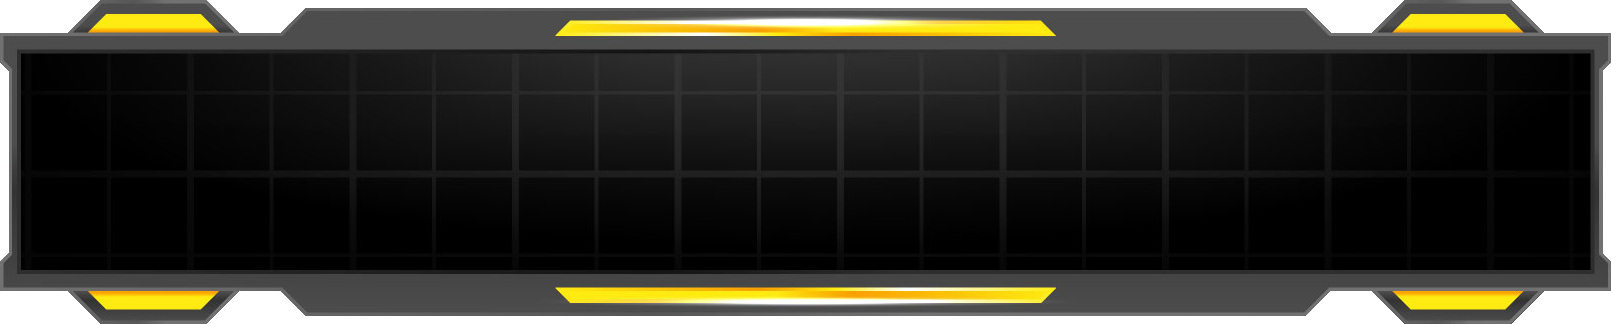
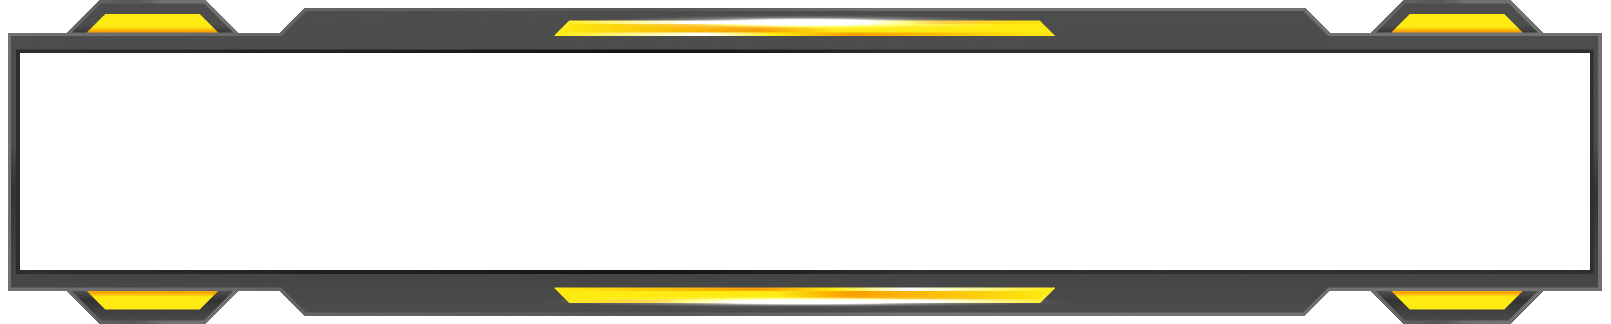
main board ui

diff --git a/src/Board.js b/src/Board.js
@@ -193,7 +193,7 @@ export function TIOBoard({ ctx, G, moves, events, undo, playerID, sendChatMessag
    */
   const MyNavbar = () =>
     <div style={{ position: 'fixed', height: 0, width: '100%', zIndex: '2', display: 'flex', justifyContent: 'space-between', padding: '0'}}>
-      <ButtonGroup className='borderedPanel' style={{height: '4.5rem', margin: '0 0 0 6rem', paddingTop:'2rem', fontFamily:'Handel Gothic'}}>
+      <ButtonGroup className='borderedPanel' style={{height: '4.5rem', margin: '0 0 0 2rem', paddingTop:'2rem', fontFamily:'Handel Gothic'}}>
         <button className={'styledButton ' + (objVisible ? 'white':'black')} style={{width: '8rem'}} onClick={()=>setObjVisible(!objVisible)}>{t("board.nav.objectives")}</button>
         <button className={'styledButton ' + (planetsVisible ? 'white':'black')} style={{width: '8rem'}} onClick={()=>setPlanetsVisible(!planetsVisible)}>{t("board.nav.planets")}</button>
         <button className={'styledButton ' + (unitsVisible ? 'white':'black')} style={{width: '8rem'}} onClick={()=>setUnitsVisible(!unitsVisible)}>{t("board.nav.units")}</button>
@@ -208,7 +208,7 @@ export function TIOBoard({ ctx, G, moves, events, undo, playerID, sendChatMessag
               <AccordionHeader targetId='1' style={{border: 'none', background: 'transparent'}}>
                 <span style={{display: 'flex', width: '100%', background: 'transparent'}}>
                   <CardImg style={{width: '2rem', maxHeight: '2rem', marginRight: '1rem'}} src={'race/icons/'+G.races[ctx.currentPlayer].rid+'.png'} />
-                  <h5 style={{margin: 0, alignSelf: 'center', flex: 'auto'}}>{t('board.players_move') + ': ' + t('races.' + G.races[ctx.currentPlayer].rid + '.name')}
+                  <h5 style={{margin: 0, alignSelf: 'center', flex: 'auto'}}>{t('races.' + G.races[ctx.currentPlayer].rid + '.name')}
                   {G.speaker === G.races[ctx.currentPlayer].rid ? ' (' + t('board.speaker') + ')': ''}
                   </h5>
                 </span>
@@ -1213,11 +1213,11 @@ export function TIOBoard({ ctx, G, moves, events, undo, playerID, sendChatMessag
   return (
           <StateContext.Provider value={{G, ctx, playerID, moves, exhaustedCards, exhaustTechCard, prevStages: prevStages.current, PLANETS, UNITS}}>      
             <MyNavbar />
-            <CardColumns style={{margin: '5rem 1rem 1rem 1rem', padding:'1rem', position: 'fixed', width: '35rem', zIndex: '1'}}>
+            <CardColumns style={{margin: '4rem 1rem 1rem 1rem', padding:'1rem', position: 'fixed', width: '35rem', zIndex: '1'}}>
               {ctx.phase !== 'strat' && ctx.phase !== 'agenda' && !strategyStage && !race.isSpectator && <>
                 {techVisible && <TechnologyDialog />}
-                {objVisible && <Card id='objListMain' style={{ ...CARD_STYLE, backgroundColor: 'rgba(33, 37, 41, 0.95)'}}>
-                    <CardTitle style={{borderBottom: '1px solid rgba(74, 111, 144, 0.42)'}}><h6>{t('board.nav.objectives')} <span style={{float: 'right'}}>{t('board.you_have') + ' ' + VP + ' ' + t('board.vp')}</span></h6></CardTitle>
+                {objVisible && <Card id='objListMain' className='subPanel' style={{ padding: '3rem 1rem 1rem', backgroundColor: 'rgba(33, 37, 41, 0.95)'}}>
+                    <CardTitle><h6 style={{textAlign: 'right', margin: 0}}>{t('board.victory_points').toUpperCase() + ': ' + VP}</h6></CardTitle>
                     <ObjectivesList mustSecObj={mustSecObj} onSelect={ctx.phase === 'stats' && isMyTurn ? completeObjective: mustSecObj ? dropSecretObjective: ()=>{}}/>
                   </Card>}
                 
@@ -1473,7 +1473,7 @@ export function TIOBoard({ ctx, G, moves, events, undo, playerID, sendChatMessag
                     </ListGroupItem>)}
                   </ListGroup>}
                 </div>
-                <ButtonGroup className='borderedPanel' style={{alignSelf: 'flex-end', fontFamily:'Handel Gothic', position: 'fixed', bottom: '0', paddingBottom: '2rem', marginRight: '4rem'}}>
+                <ButtonGroup className='comboPanel-left-vertical' style={{alignSelf: 'flex-end', fontFamily:'Handel Gothic', position: 'fixed', bottom: '1.5rem', padding: '.5rem', right: '35%'}}>
                     <button className={'styledButton ' + (rightBottomVisible.includes('promissory') ? 'white':'black')} onClick={()=>rightBottomSwitch('promissory')} 
                       style={{width: '7rem'}}>{t("board.nav.promissory")}</button>
                     <button className={'styledButton ' + (rightBottomVisible.includes('relics') ? 'white':'black')} onClick={()=>rightBottomSwitch('relics')} 
@@ -1490,11 +1490,11 @@ export function TIOBoard({ ctx, G, moves, events, undo, playerID, sendChatMessag
               <CardColumns style={{paddingRight: '2rem', display: 'flex', height: 'max-content', 
                           width: '100%', flexDirection: 'column', justifyContent: 'flex-end', alignItems: 'flex-end' }}>
                   
-                  {race && race.strategy.length > 0 && ctx.phase !== 'strat' && <div className='comboPanel-left' style={{display: 'flex', position: 'absolute', padding: '.5rem', top: '-7rem'}}>
+                  {race && race.strategy.length > 0 && ctx.phase !== 'strat' && <div className='comboPanel-left-vertical' style={{display: 'flex', position: 'absolute', padding: '.5rem', top: '-4rem', right: '3rem'}}>
                     {race.strategy.map((s, i) => <StrategyCard key={i} card={s} idx={i}/>)}
                   </div>}
-                  <div className='borderedPanel' style={{display: 'flex', height: 'max-content', backgroundColor: 'rgba(0,0,0,.75)',
-                          width: '100%', flexDirection: 'column', justifyContent: 'flex-end', marginBottom: '2rem'}}>
+                  <div className='borderedPanel-vertical' style={{display: 'flex', height: 'max-content', backgroundColor: 'rgba(33, 37, 41, 0.95)',
+                          width: '100%', flexDirection: 'column', justifyContent: 'flex-end', margin: '0 -.5rem 2rem 0', zIndex: 1}}>
                     {race && subcardVisible === 'stuff' && <><Card style={{...CARD_STYLE, height: '13rem', marginBottom: 0}}>
 
                         {midPanelInfo === 'tokens' && <>

diff --git a/src/scss/custom.scss b/src/scss/custom.scss
@@ -67,7 +67,12 @@ body{
     background: no-repeat 0% 0% / 100% auto url('../../public/border-top.png');
 }
 .borderedPanel{
-    border-image: url('../../public/window-borders.png') 50 18 / 2rem / 2rem stretch !important;
+    border-image: url('../../public/window-borders.png') 50 15 / 2rem / 2rem stretch !important;
+    background: 0% 0% / auto auto url('../../public/panel-bg.png');
+}
+
+.borderedPanel-vertical{
+    border-image: url('../../public/window-borders-vertical.png') 15 50 / 2rem / 2rem stretch !important;
     background: 0% 0% / auto auto url('../../public/panel-bg.png');
 }
 
@@ -78,9 +83,13 @@ body{
 .comboPanel-left{
     border-image: url('../../public/comboPanel-left.png') fill 50 50 / 1rem  stretch !important;
 }
-/*.subPanel{
-    border-image: url('../../public/subPanel.png') fill 40 60 / 2rem / 2rem stretch !important;
-}*/
+.comboPanel-left-vertical{
+    border-image: url('../../public/comboPanel-left-vertical.png') fill 50 50 / 1rem  stretch !important;
+}
+.subPanel{
+    border-image: url('../../public/subPanel.png') 20 25 / 1rem / .5rem round !important;
+    background: 0% 0% / auto auto url('../../public/panel-bg.png');
+}
 
 .styledButton{
     min-height: 2.5rem;
